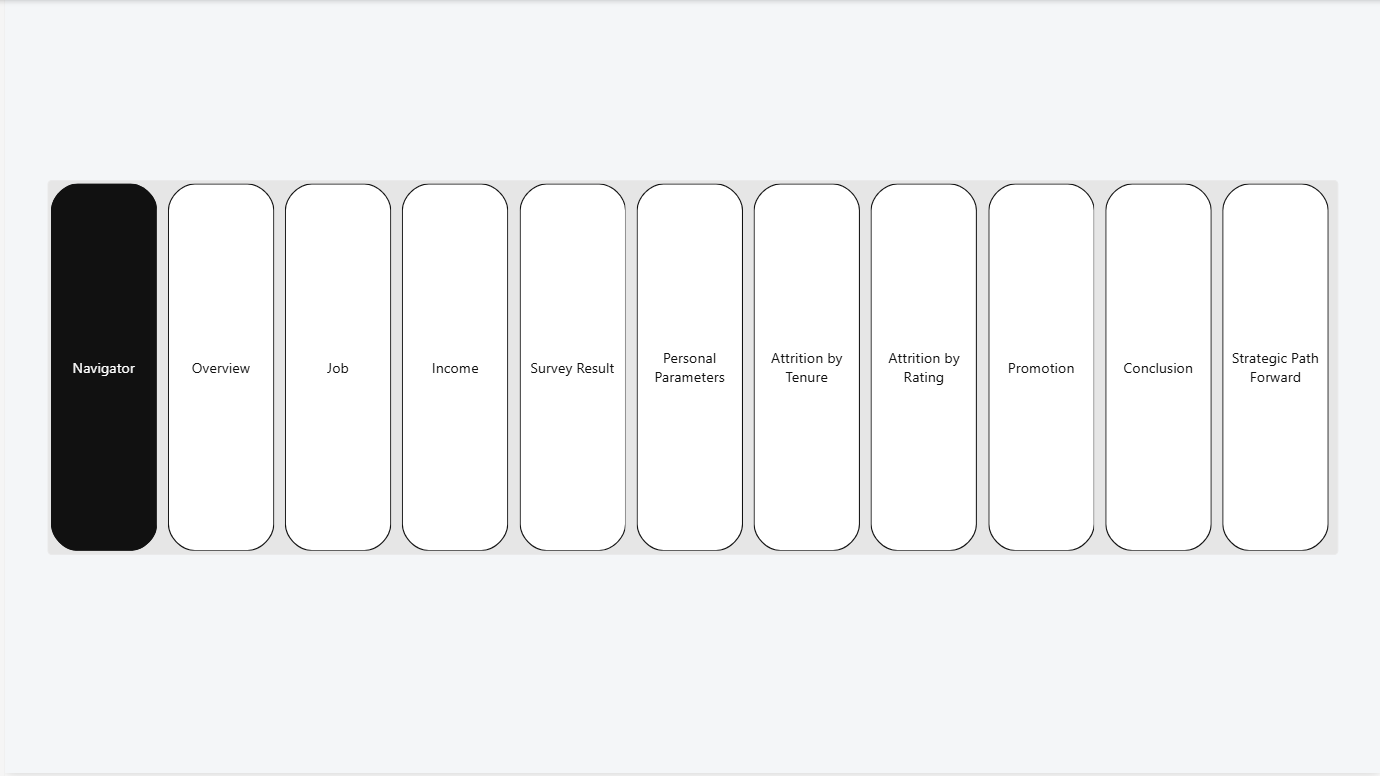
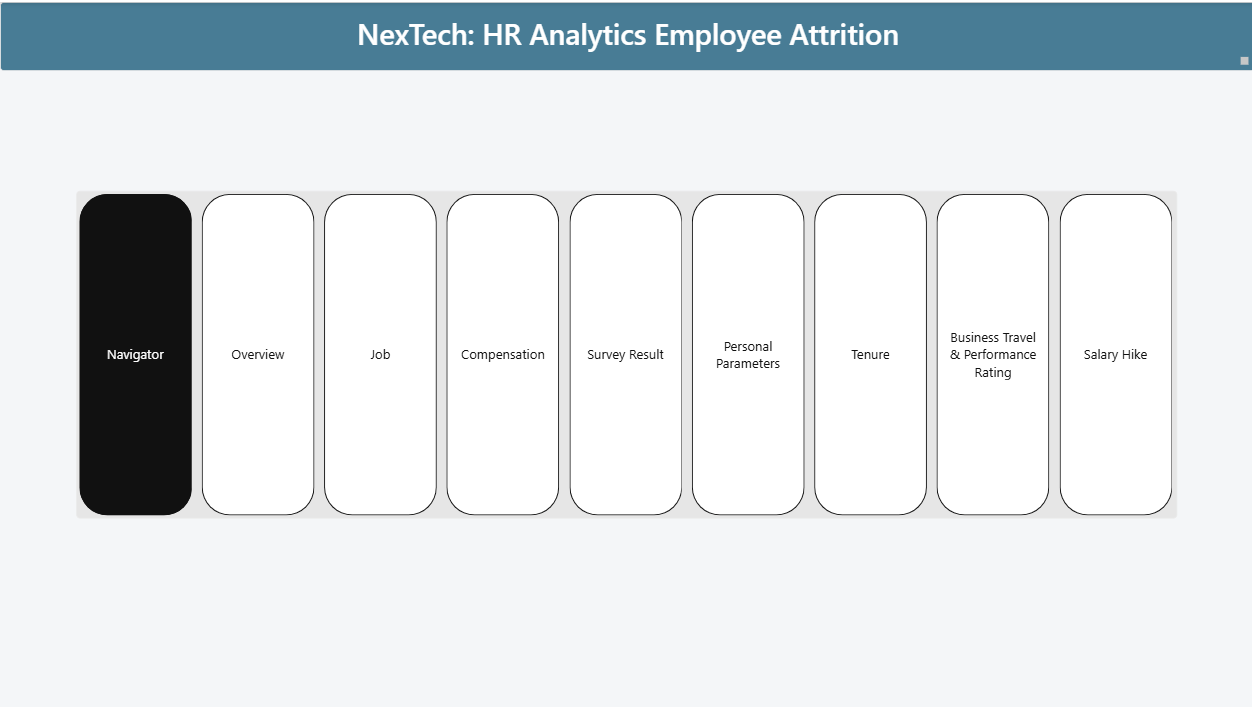
Fresh upload of all report files

Changed region(s): [[0.0312, 0.2178, 0.9657, 0.7468], [0.0, 0.0, 1.0, 0.1245]]

diff --git a/README.md b/README.md
@@ -1,73 +1,112 @@
 # NexTech: HR Analytics
 
-![alt text](/Images/Page%202%20Overview.png)
+## Problem Definiton
 
-## HR Analytics: Conclusion & Strategic Path Forward
-A structured framework synthesising NexTech's employee attrition and performance data into actionable leadership decisions.
+Mitigating the drivers of employee attrition is essential to safeguarding a company’s financial health and sustaining operational efficiency.
+Departure of skilled workforce entails both direct and indirect financial costs like Onboarding, adaption costs, opportunity costs.
 
-- Organisation: NexTech
-- Report scope: Employee Attrition & Performance
-- Report pages analysed: 10 pages · 91 visuals
-- Prepared for: Senior Leadership & Board
+**Objective of the study**
+- Identify key drivers of employee attrition
+- Uncover anomalies in the organization
+- Path forward : Identify practical measures to retain the talent
 
-### Executive Summary
-- **Workforce health:**
-The analytics reveal a measurable attrition gap between active and departed employees. Voluntary attrition is concentrated in specific departments, job levels, and income bands — pointing to structural rather than individual causes.
+**Study Baseline:** 
+The baseline attrition rate in this sample is 16.1% (237 out of 1470 employees). This is the starting point to analyze causes for attrition.
 
-- **Compensation gap:**
-Monthly income distribution and daily rate analysis indicate that certain income brackets carry elevated attrition risk, while salary hike percentage data suggests that compensation adjustments alone do not fully arrest attrition.
+## Data Souce
+A verified corporate dataset (based on IBM HR Analytics data) was extracted for the study. The total sample size comprises 1,470 observations, ensuring high representativeness and statistical significance for the insights derived.
 
-- **Satisfaction signal:**
-Job satisfaction, environment satisfaction, and work-life balance scores show a direct inverse relationship with attrition rates. Employees with lower survey scores are disproportionately represented among those who left.
+The data source architecture gathered following information:
+1. **Demographic metrics**: Age, gender, MaritalStatus, Education, EducationField, DistanceFromHome
+2. **Job Information**: Department, JobRole, JobLevel, BusinessTravel, OverTime, NumCompaniesWorked, EmployeeNumber, StandardHours
+3. **Compensation**: HourlyRate, DailyRate, MonthlyRate, MonthlyIncome, PercentSalaryHike, StockOptionLevel
+4. **Tenure**: TotalWorkingYears, YearsAtCompany, YearsInCurrentRole, YearsSinceLastPromotion, YearsWithCurrManager, TrainingTimesLastYear
+5. **Satisfaction**: Input received from anonymous survey conducted internally to measure EnvironmentSatisfaction, JobSatisfaction, JobInvolvement, RelationshipSatisfaction, WorkLifeBalance
 
-- **Tenure vulnerability:**
-Attrition risk is highest within specific years-at-company bands and for employees in roles with low promotion frequency. Employees managed by the same manager for extended periods also show elevated exit likelihood.
+## Analysis of the steps performed
 
-## Key Findings by Analytical Dimension
+The company’s organizational structure was examined, operating across three key macro-processes (departments):
+- Research & Development (R&D): The technical unit responsible for creating intellectual property and developing products.
+- Sales: The commercial unit focused on revenue generation and client base retention.
+- Human Resources (HR): The support function responsible for personnel administration and staff development.
 
-- **High Risk: Department-wise:**
-1. Unequal attrition across departments
-2. Attrition rate is not uniform — select departments exhibit significantly higher left-employee counts
-3. Over-Time presence amplifies department-level attrition
-4. Departments with concentrated junior roles show higher exits
-5. Pivot data suggests certain Dept × Job Role combinations are disproportionately at risk
+![alt text](<Page 2 Overview.png>)
 
-- **High Risk: Job Level / Designation-wise** 
-1. Junior and mid-level roles most vulnerable
-2. Lower job levels have higher headcount concentration but also higher attrition share
-3. Career progression stagnation is a key driver at mid-level bands
-4. Role-level attrition is a leading indicator of future talent pipeline gaps
+## Audit of parameters pertaining to data collection
 
-- **Medium Risk: Income-wise**
-1. Compensation bands drive exit decisions
-2. Lower monthly income brackets show disproportionate attrition share
-3. Daily rate spread reveals pay equity issues across roles
-4. Salary hike % alone is insufficient — absolute pay level matters more for retention
-5. Monthly rate vs attrition Python analysis reveals non-linear compensation effect
+### Job Parameters
 
-- **High Risk: Survey / Satisfaction-wise**
-1. Dissatisfaction is a leading attrition predictor
-2. Low job satisfaction scores correlate strongly with increased attrition
-3. Poor environment satisfaction compounds the exit risk significantly
-4. Work-life balance perception mediates the relationship between tenure and exit
-5. Employees rating WLB low also tend to have longer tenures with the same manager
+![alt text](<Page 3 Job Parameter Analysis.png>)
 
-- **Medium Risk: Personal Parameters**
-1. Commute distance and life stage matter
-2. Higher distance from home is associated with elevated attrition risk
-3. Marital status segmentation shows single employees leave at higher rates
-4. Education field affects attrition — certain disciplines have stronger external market pull
-5. Life-stage factors require personalized retention programming
+**Overtime patterns**: 
 
-- **Medium Risk: Tenure & Performance-wise**
-1. Career stagnation accelerates exits
-2. Early-tenure employees (0–3 years) form a high-risk attrition cohort
-3. Long periods since last promotion strongly predict imminent departure
-4. Extended time with same manager without growth signals disengagement
-5. Business travel frequency elevates attrition in already stressed roles
+Among the 416 employees reporting workplace burnout, 127 (30.5%) exited the organization. In contrast, the turnover rate among employees without burnout concerns is significantly lower at 10.4%. This highlights a strong correlation between burnout and attrition risk. 
+
+The findings reinforce the established burnout hypothesis: employees working overtime resign nearly three times more frequently than those adhering to regular schedules. Specifically, turnover among specialists with overtime workloads is 30.5%, compared to just 10.5% for those maintaining balanced hours.
+
+ **Job level & Job Role**: 
+ 
+ Attrition is disproportionately concentrated at the Entry and Junior levels, accounting for 82.3% of total separations. This trend is particularly concerning, as employees at these levels are gaining skills and hands-on experience before leaving, resulting in repeated investments in recruitment, training, onboarding, and associated opportunity costs. 
+ 
+ Elevated attrition is also observed in specific roles, including Sales Executive, Research Scientist, Laboratory Technician, and HR Executive, indicating role-specific retention challenges.
+
+### Compensation 
+
+![alt text](<Page 4 Comp Analysis.png>)
+
+Attrition driven by financial considerations is most pronounced within the Research & Development function, where turnover remains elevated despite the presence of higher‑income outliers.
+
+In contrast, the Sales and Human Resources departments exhibit the opposite trend: employees with higher monthly incomes demonstrate stronger retention, while attrition is concentrated among those with lower daily rates and monthly earnings.
+
+This pattern underscores the existence of a critical salary threshold. Employees earning below this level are more likely to disengage, experience demotivation, and ultimately exit the organization, whereas those above the threshold show greater stability and commitment.
+
+### Survey Result 
+
+![alt text](<Page 5 Survey Result Analysis.png>)
+
+**Job Satisfaction, Environment Satisfaction and Work-life Balance** 
+
+Despite high levels of job satisfaction, environment satisfaction, and positive work-life balance, attrition persists. A deeper review reveals that satisfaction trends in the HR department follow similar trajectories, whereas the R&D and Sales departments display divergent patterns among these parameters.
+
+Overall, work-life balance ratings are favorable, with 84.2% of employees reporting Good to Better outcomes. Additionally, 60.3% of employees express High to Very High satisfaction with their current manager, and the same proportion report satisfaction with their most recent promotion.
+
+Long periods since last promotion strongly predict imminent departure
+
+Extended time with same manager without growth signals disengagement
+
+
+### Personal Parameters
+
+![alt text](<Page 6 Personal Parameter Analysis-1.png>)
+
+**Commutation**: Attrition is notably higher among employees commuting long distances (>6 km daily), with 63.3% citing this as a reason for leaving.
+
+**Education Background**: Employees with educational backgrounds in Medical and Life Sciences exhibit higher turnover compared to other fields.
+
+**Marital status also influences attrition**: single employees demonstrate a greater tendency to resign compared to their married or divorced counterparts.
+
+### Employee Tenure
+![alt text](<Page 7 Tenure Analysis.png>)
+
+**Employee Experience & Retention Insight**
+
+Employees with limited external exposure—specifically those who have not worked with more than one organization—demonstrate a higher tendency to leave compared to employees with experience across three or more companies. This trend suggests that the organization offers a genuinely strong work-life balance and other favorable conditions, enabling it to establish a competitive advantage within the industry.
+
+
+### Attrition by Business Travel and Performance Rating
+
+![alt text](<Page 8 Business Travel and Perofmance Rating.png>)
+
+**Performance Rating**: Employees with an ‘Excellent’ performance rating exhibit a higher propensity to leave the organization, and this trend is consistently observed across all departments.
+
+**Business Travel**:In terms of business travel, the highest turnover is recorded among employees who travel infrequently. This pattern is also evident across departments, suggesting that limited travel engagement may correlate with increased attrition risk.
+
+### % Salary Hike
+![alt text](<Page 9 Salary Hike.png>)
+
+Employees who received the least % salary hike (11-15%) left the organization than the ones who received more salary hike.
 
 ## Three strategic pillars for the path forward
-
 1 Stabilize — Stop the bleed
 - Conduct immediate stay interviews in high-attrition departments
 - Audit Over-Time distribution and enforce sustainable limits
@@ -91,3 +130,6 @@ Attrition risk is highest within specific years-at-company bands and for employe
 - Create a "High Risk Cohort" watch-list updated from live Power BI data
 - Build leadership development track to reduce promotion bottlenecks
 - Report attrition metrics at board level on a quarterly basis
+
+
+